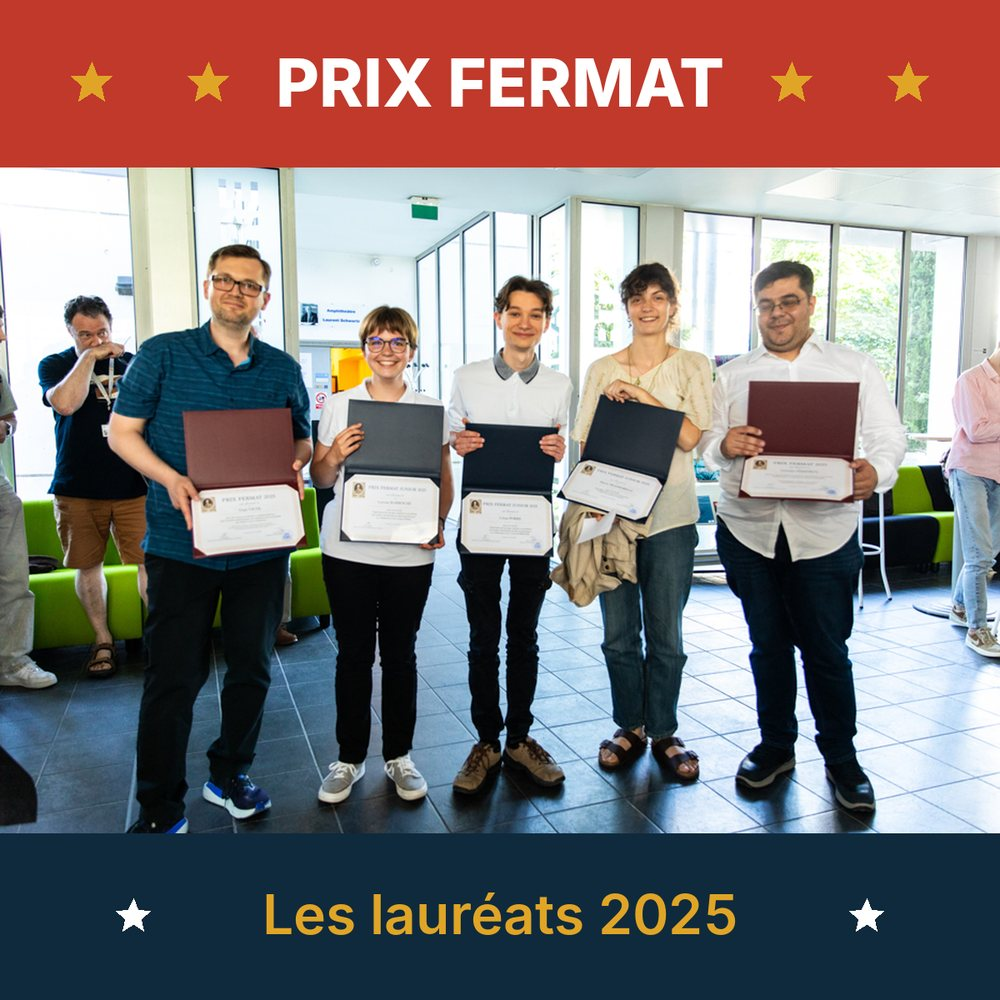
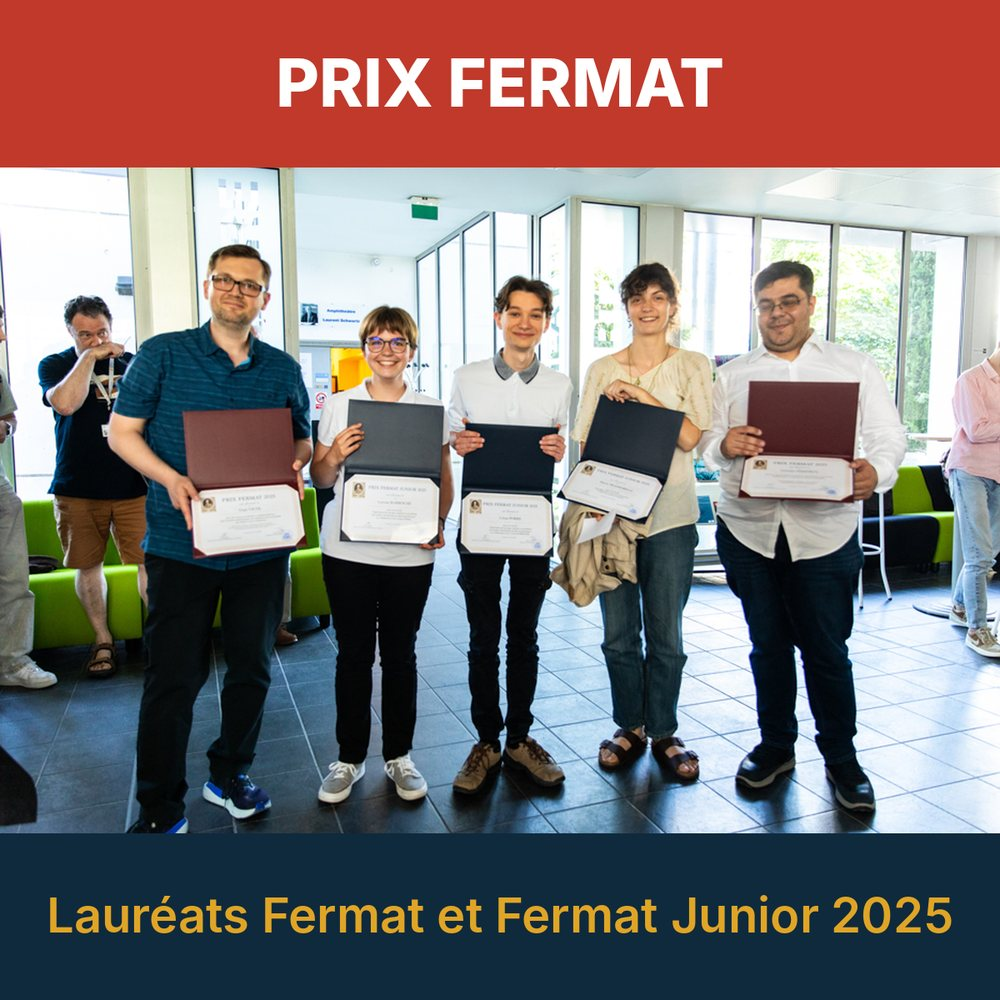
Tangram : prix Fermat et Fermat Junior (#8)
Claude-Session: https://claude.ai/code/session_01YDMxL4b5ssRZ1i4YBywy7Y

diff --git a/calendrier-avent/tangram/index.html b/calendrier-avent/tangram/index.html
@@ -3,7 +3,7 @@
 <head>
 <meta charset="UTF-8">
 <meta name="viewport" content="width=device-width, initial-scale=1.0">
-<title>Calendrier de l'Avent – Tangram : les lauréats du prix Fermat 2025</title>
+<title>Calendrier de l'Avent – Tangram : les lauréats des prix Fermat 2025</title>
 <style>
   :root {
     --bg: #0f2a3d;
@@ -120,12 +120,12 @@
 <div class="card">
   <header>
     <small>Calendrier de l'Avent des Maths à Toulouse</small>
-    <h1>Tangram : les lauréats du prix Fermat 2025</h1>
+    <h1>Tangram : les lauréats des prix Fermat 2025</h1>
     <div class="day" aria-hidden="true">🧩</div>
   </header>
   <div class="progress"><div id="progress"></div></div>
   <main>
-    <p class="intro">La photo des lauréats du prix Fermat 2025, prise à l'Institut de Mathématiques de Toulouse, a été découpée en 7 pièces de tangram. <b>Faites glisser</b> les pièces dans le carré et <b>touchez-les</b> pour les faire tourner d'un huitième de tour. Une pièce bien placée, dans le bon sens, s'aimante toute seule.</p>
+    <p class="intro">La photo des lauréats 2025 du prix Fermat et du prix Fermat Junior, prise à l'Institut de Mathématiques de Toulouse, a été découpée en 7 pièces de tangram. <b>Faites glisser</b> les pièces dans le carré et <b>touchez-les</b> pour les faire tourner d'un huitième de tour. Une pièce bien placée, dans le bon sens, s'aimante toute seule.</p>
     <div class="bar">
       <div class="stats">Pièces placées : <b id="placed">0</b> / 7 · Coups : <b id="moves">0</b></div>
       <div class="btns">
@@ -149,11 +149,12 @@
       <span id="winText"></span>
       <div class="btns">
         <button class="btn primary" id="again">Rejouer</button>
-        <a class="btn" href="https://www.math.univ-toulouse.fr/fr/activites/prix-fermat/" target="_blank" rel="noopener">Découvrir le prix Fermat</a>
+        <a class="btn" href="https://www.math.univ-toulouse.fr/fr/activites/prix-fermat/" target="_blank" rel="noopener">Le prix Fermat</a>
+        <a class="btn" href="https://www.math.univ-toulouse.fr/fr/activites/prix-fermat-junior/" target="_blank" rel="noopener">Le prix Fermat Junior</a>
       </div>
     </div>
   </main>
-  <footer>Photo : lauréats du <a href="https://www.math.univ-toulouse.fr/fr/activites/prix-fermat/" target="_blank" rel="noopener">prix Fermat 2025</a>, Institut de Mathématiques de Toulouse. Le prix Fermat est décerné tous les deux ans à Toulouse par l'IMT.</footer>
+  <footer>Photo : lauréats 2025 du <a href="https://www.math.univ-toulouse.fr/fr/activites/prix-fermat/" target="_blank" rel="noopener">prix Fermat</a> et du <a href="https://www.math.univ-toulouse.fr/fr/activites/prix-fermat-junior/" target="_blank" rel="noopener">prix Fermat Junior</a>, Institut de Mathématiques de Toulouse. Le prix Fermat récompense des travaux de recherche du plus haut niveau international ; le prix Fermat Junior récompense des étudiantes et étudiants des trois premières années d'études supérieures.</footer>
 </div>
 
 <script>
@@ -309,7 +310,7 @@ function update() {
   if (n === 7) {
     svg.classList.add("done");
     document.getElementById("winText").textContent =
-      `Vous avez reconstitué la photo des lauréats du prix Fermat 2025 en ${moves} coups.`;
+      `Vous avez reconstitué la photo des lauréats 2025 du prix Fermat et du prix Fermat Junior en ${moves} coups.`;
     document.getElementById("win").classList.add("show");
     document.getElementById("hint").setAttribute("aria-pressed", "false");
     document.getElementById("ghost").classList.remove("show");

diff --git a/README.md b/README.md
@@ -8,4 +8,4 @@ Contenus de médiation de l'Institut de Mathématiques de Toulouse (IMT), du Lab
 - [Quiz n°2 : le Labex CIMI](calendrier-avent/quiz/quiz-02-cimi.html) : quiz interactif en 5 questions (case 7 du calendrier).
 - [Quiz n°3 : les événements de l'IMT](calendrier-avent/quiz/quiz-03-imt-evenements.html) : quiz interactif en 5 questions (case 10 du calendrier).
 - [Quiz n°4 : l'IMT, ses équipes et sa recherche](calendrier-avent/quiz/quiz-04-imt-recherche.html) : quiz interactif en 5 questions (case 15 du calendrier).
-- [Tangram : les lauréats du prix Fermat 2025](calendrier-avent/tangram/) : la photo des lauréats à reconstituer en 7 pièces.
+- [Tangram : les lauréats des prix Fermat 2025](calendrier-avent/tangram/) : la photo des lauréats du prix Fermat et du prix Fermat Junior à reconstituer en 7 pièces.
